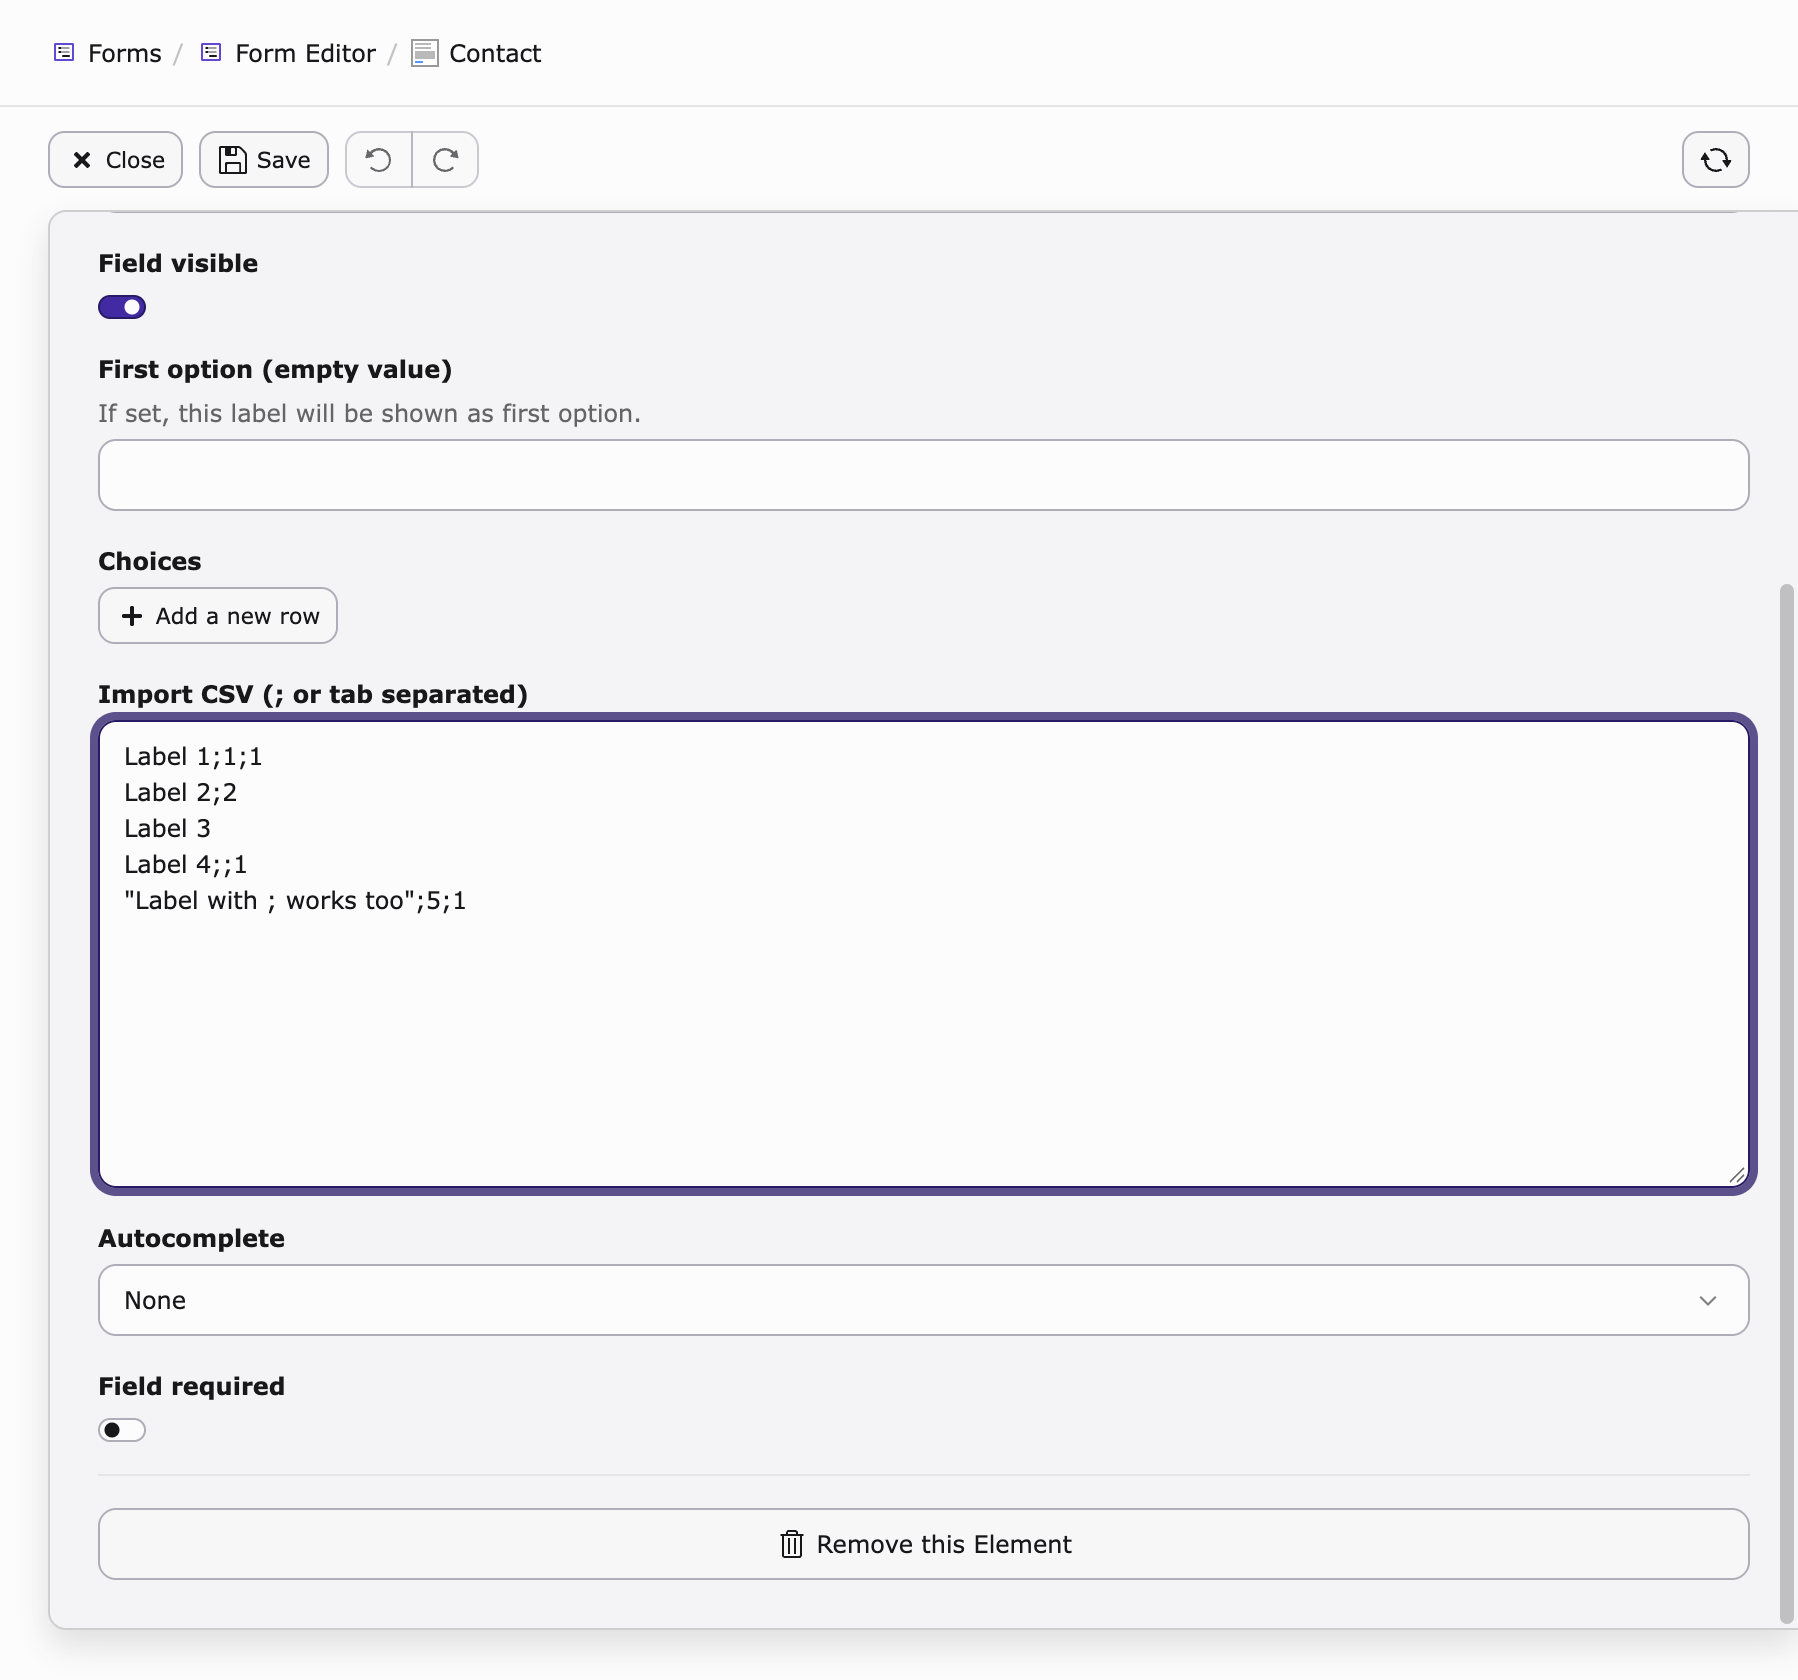
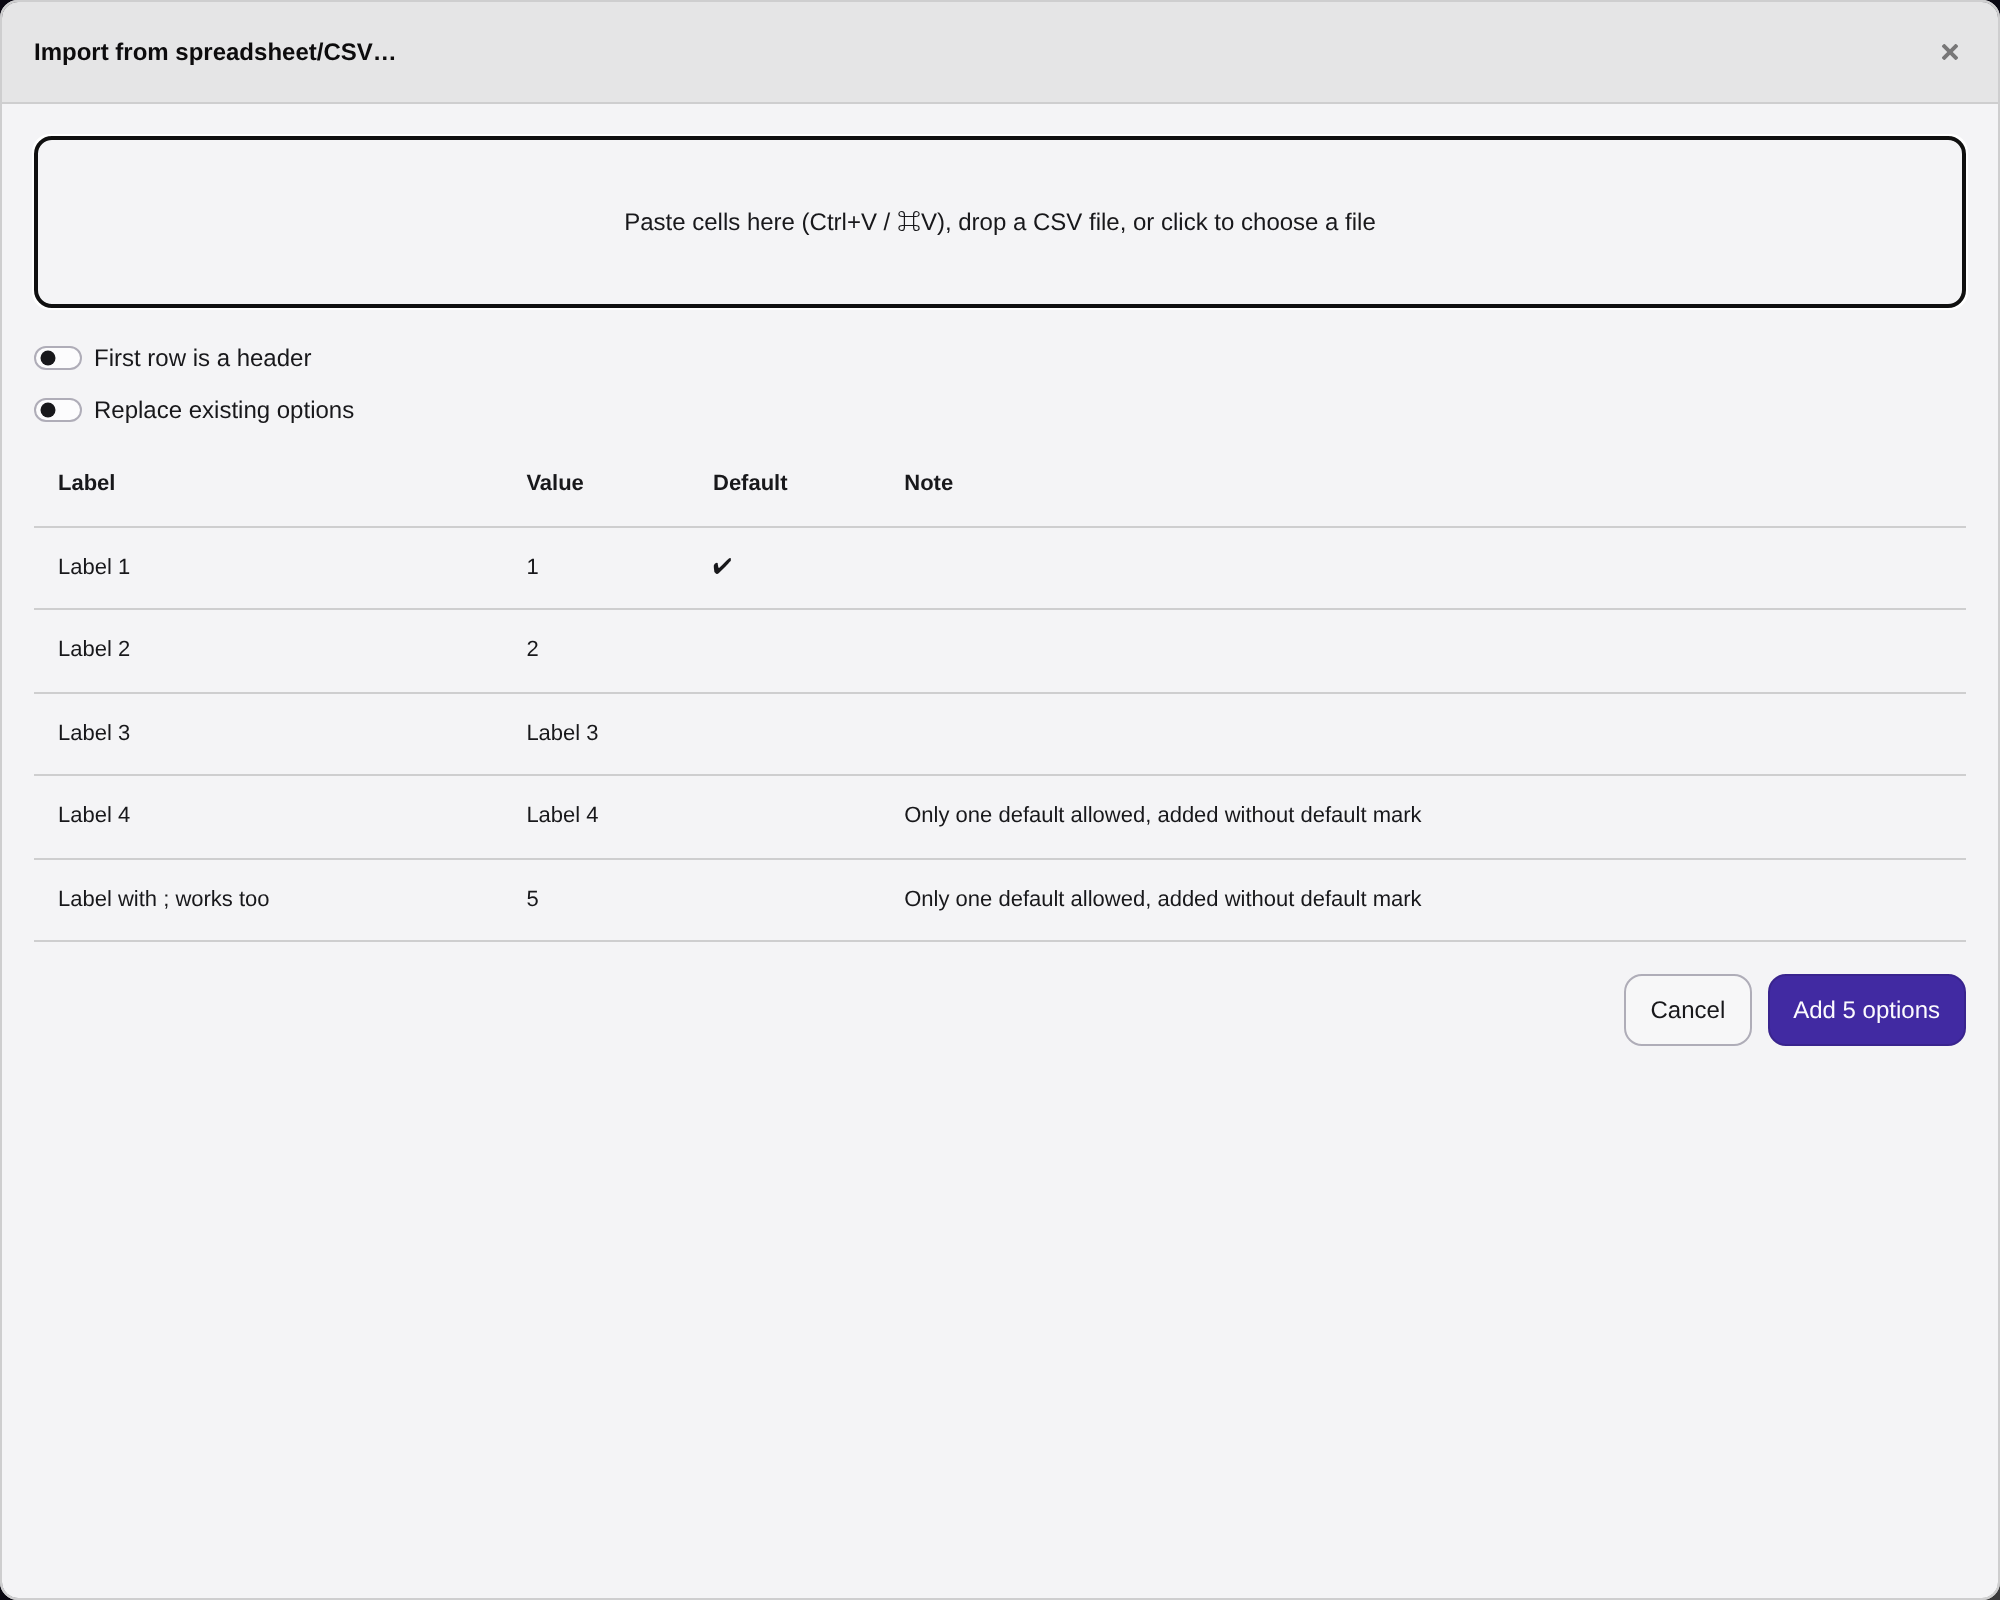
[DOCS] Describe the import modal and update screenshots for TYPO3 14

diff --git a/ext_emconf.php b/ext_emconf.php
@@ -2,7 +2,7 @@
 
 $EM_CONF[$_EXTKEY] = [
     'title' => 'Form options CSV import',
-    'description' => 'Import CSV data for core form extension select options',
+    'description' => 'Import options for TYPO3 form select fields from a spreadsheet or CSV file',
     'category' => 'backend',
     'author' => 'Wolfgang Klinger',
     'author_email' => 'wk@plan2.net',

diff --git a/README.md b/README.md
@@ -1,8 +1,8 @@
-# Import CSV data for form select options
+# Import form select options from a spreadsheet or CSV file
 
 ## What does it do?
 
-The extension adds an import field to these form elements:
+The extension adds an **Import from spreadsheet/CSV…** button to these form elements in the TYPO3 form editor:
 
 * Single select
 * Multi select
@@ -11,13 +11,13 @@ The extension adds an import field to these form elements:
 
 These are all elements with a _Choices_ field.
 
-![Backend form](Documentation/Images/backend_form_import.png)
+Click the button, then paste cells copied from Excel, Google Sheets, LibreOffice or Numbers, or drop a CSV file. A preview shows every row before anything changes:
 
-Paste your options into the import field and save the element. Each line becomes one _Choices_ row. The example data below gives this result:
+![Import modal with preview](Documentation/Images/backend_form_import.png)
 
-![Backend form after import](Documentation/Images/backend_form_imported.png)
+Click **Add N options**. The rows appear in _Choices_ right away, no save needed. Save the form as usual. The undo button of the form editor removes the whole import in one step.
 
-**The import replaces all existing options of the element.** After saving, the import field is empty again.
+![Choices after the import](Documentation/Images/backend_form_imported.png)
 
 ## Supported versions
 
@@ -31,19 +31,33 @@ Only these LTS versions are tested and supported. For TYPO3 11.5, use version 2.
 
     composer require "plan2net/form-options-csv"
 
-## Format of the import field
+## Columns
 
-Each line has up to three columns, separated by `;`:
+Each row has up to three columns:
 
-    label;value;default
+    label | value | default
 
-* **label**: the text the visitor sees. Required.
-* **value**: the value that is submitted. Optional. If it is missing or empty, the label is used.
+* **label**: the text the visitor sees. Required. Rows without a label are skipped.
+* **value**: the value that is submitted. Optional. If it is empty, the label is used.
 * **default**: marks the option as selected by default. Leave it empty or use `0` for "no". Anything else means "yes".
 
-Columns after the third are ignored. Empty lines are skipped.
+Columns after the third are ignored. Empty rows are skipped.
 
-### Example
+## Adding or replacing
+
+Imported options are **added below** the existing options. Switch on **Replace existing options** to remove the existing options first. This switch always starts off.
+
+Switch on **First row is a header** if your sheet has a header row. The modal remembers this switch.
+
+## Separators
+
+* **Pasted cells** from a spreadsheet are separated by tabs. Pasted text without tabs is split on `;`. Commas never split pasted text, so labels like "Vienna, Austria" work.
+* **CSV files** may use tab, `;` or `,`. The import looks at the first row and uses the separator that appears most often.
+* Put a label in double quotes (`"Label with ; works too"`) to use the separator inside it.
+* Files may be saved as UTF-8 or in the older Windows encoding of Excel. Both work.
+* Excel workbooks (`.xlsx`) cannot be imported directly. Copy the cells or save the sheet as CSV.
+
+## Example
 
     Label 1;1;1
     Label 2;2
@@ -54,22 +68,12 @@ Columns after the third are ignored. Empty lines are skipped.
 * `Label 1;1;1`: label "Label 1", value "1", selected by default.
 * `Label 2;2`: label "Label 2", value "2".
 * `Label 3`: label and value are "Label 3".
-* `Label 4;;1`: label and value are "Label 4", selected by default.
-* `"Label with ; works too";5;1`: put a label in double quotes (`""`) to use `;` inside it.
+* `Label 4;;1`: label and value are "Label 4", marked as default.
+* `"Label with ; works too";5;1`: label "Label with ; works too", value "5", marked as default.
 
-### Default values
+## Rules
 
-* Single select and radio button can have only one default. The first marked line wins, and later marks are ignored.
-* Multi select and multi checkbox keep every marked line as a default.
-
-### Same value twice
-
-If two lines have the same value, only the first line is kept.
-
-### Paste from a spreadsheet
-
-You can copy rows from a spreadsheet (Excel, LibreOffice, Google Sheets, Numbers) and paste them. Pasted cells are separated by tabs, and the import handles that. If a line has a tab, the tab separates the columns and `;` is just text.
-
-### Fieldsets and grids
-
-The import works for elements at any depth, including fieldsets and grid rows.
+* **Same value twice:** a row whose value already exists, or appears earlier in the import, is skipped. The preview says why.
+* **Defaults on single select and radio button:** only one default is allowed. The first marked row becomes the default and replaces the old one. Later marks are dropped, and the preview says so.
+* **Defaults on multi select and multi checkbox:** every marked row becomes a default, in addition to the existing ones.
+* **Broken quotes:** if a quote is not closed, nothing is imported and the preview names the line.

diff --git a/CHANGELOG.md b/CHANGELOG.md
@@ -6,13 +6,21 @@
 
 - TYPO3 11.5 is no longer supported. Requires TYPO3 12.4, 13.4 or 14.3.
 - Requires PHP 8.2 or newer.
+- The import textarea is replaced by an "Import from spreadsheet/CSV…" button that opens a modal. The rows are added in the browser, without saving the form first.
+- Imported options are now added below the existing options. A switch in the modal replaces them instead.
+- The `options_import` property is no longer used. Forms that still contain it lose it on the next save.
 - Rows with four or more columns now use the first three columns. Before, such a row used column one as both label and value.
 
 ### Added
 
-- You can paste rows copied from a spreadsheet. A line with a tab is split on tabs instead of `;`.
+- Paste cells copied from Excel, Google Sheets, LibreOffice or Numbers.
+- Drop or choose a CSV file. Tab, `;` and `,` files work, in UTF-8 or the older Windows encoding.
+- A preview shows every row, and why a row is skipped, before anything changes.
+- A switch for a header row.
+- The editor undo button reverts an import in one step.
+- German translation.
 
 ### Fixed
 
 - Options are imported for elements inside fieldsets and grid rows (#3).
-- No PHP 8.4 deprecation from `str_getcsv`.
+- Defaults with number values are stored as numbers, so the form editor shows them as selected.
